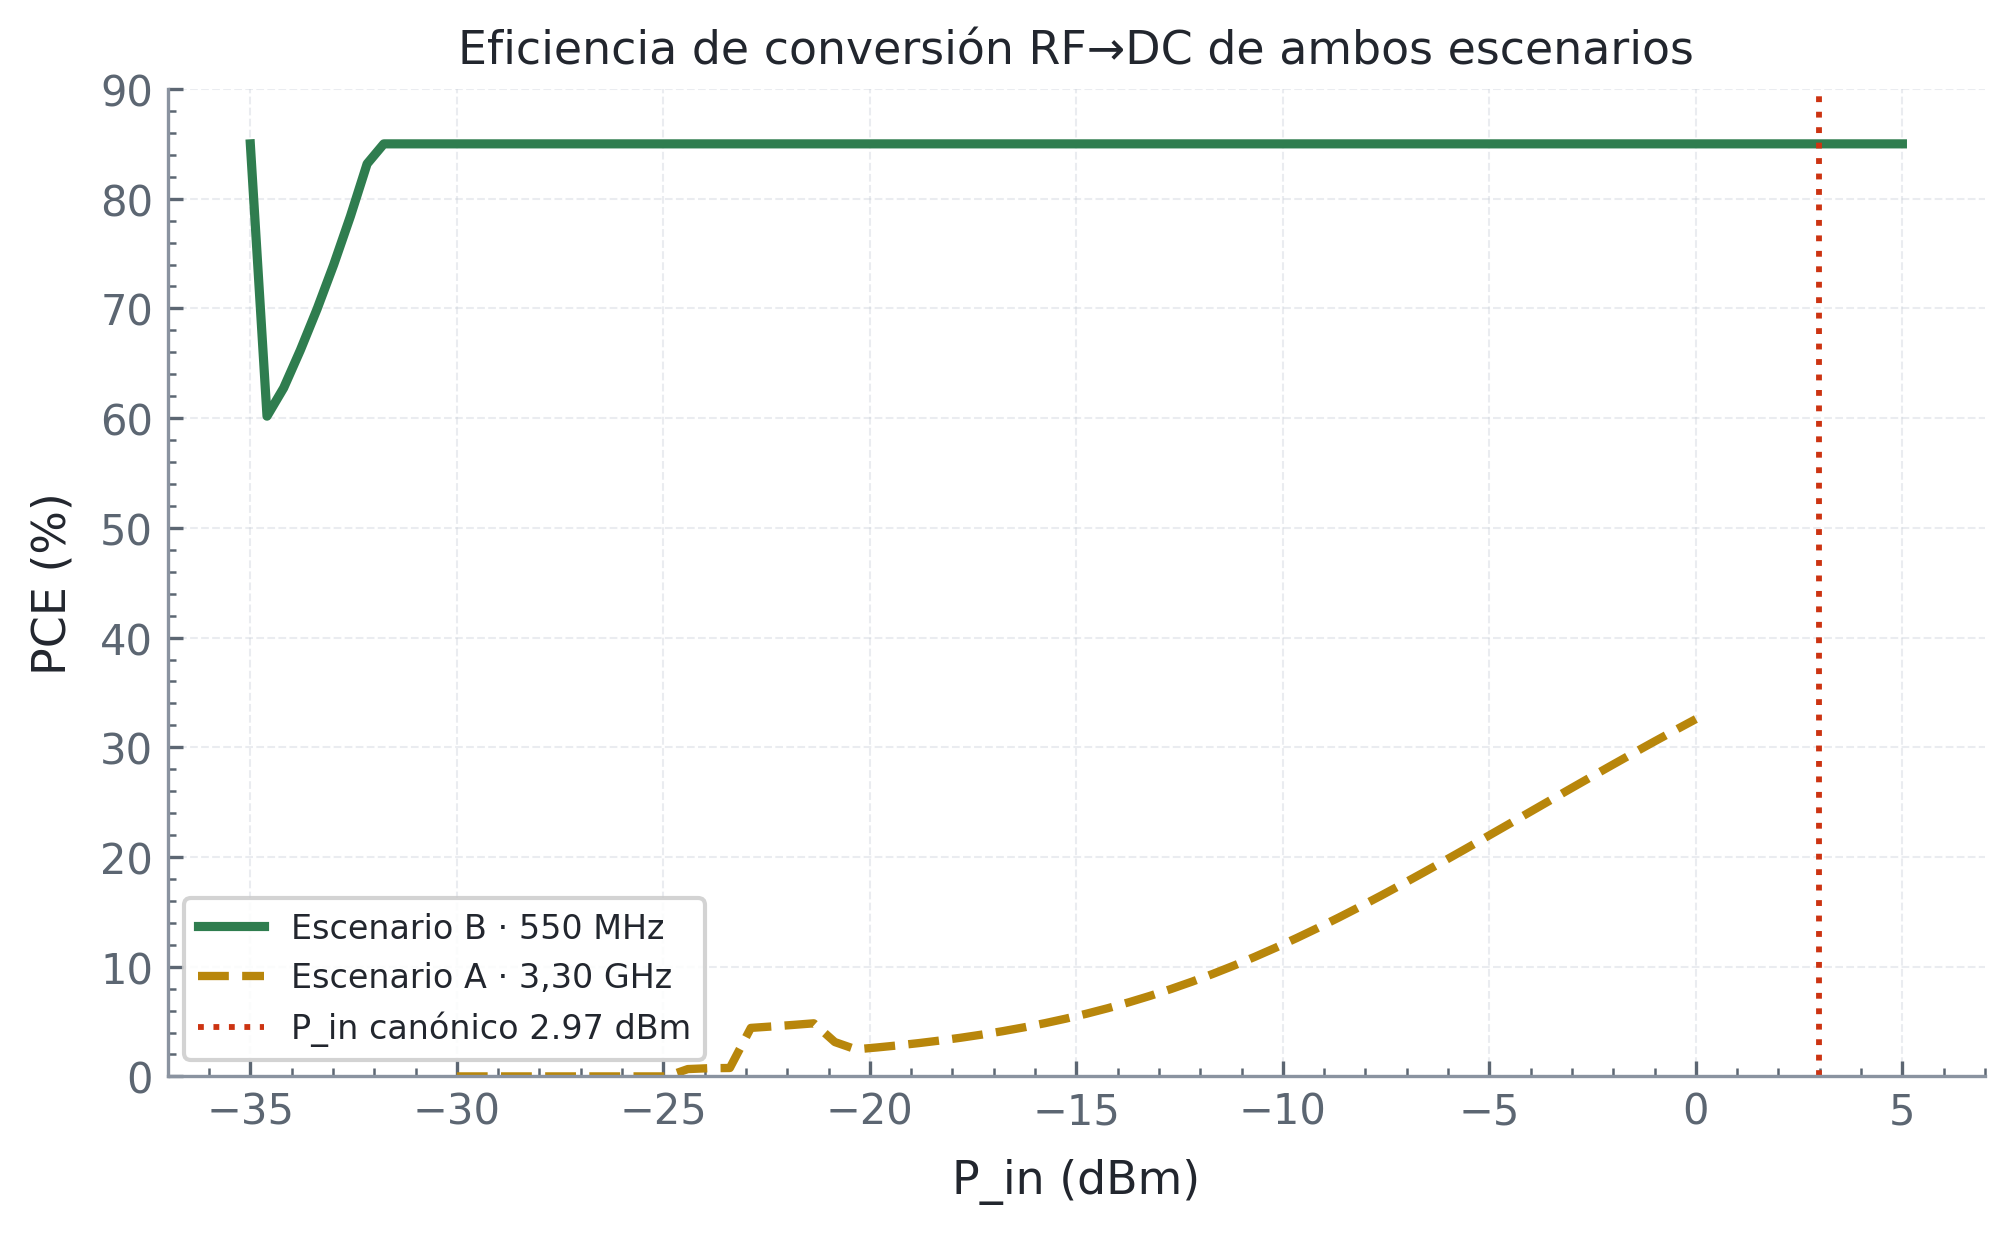
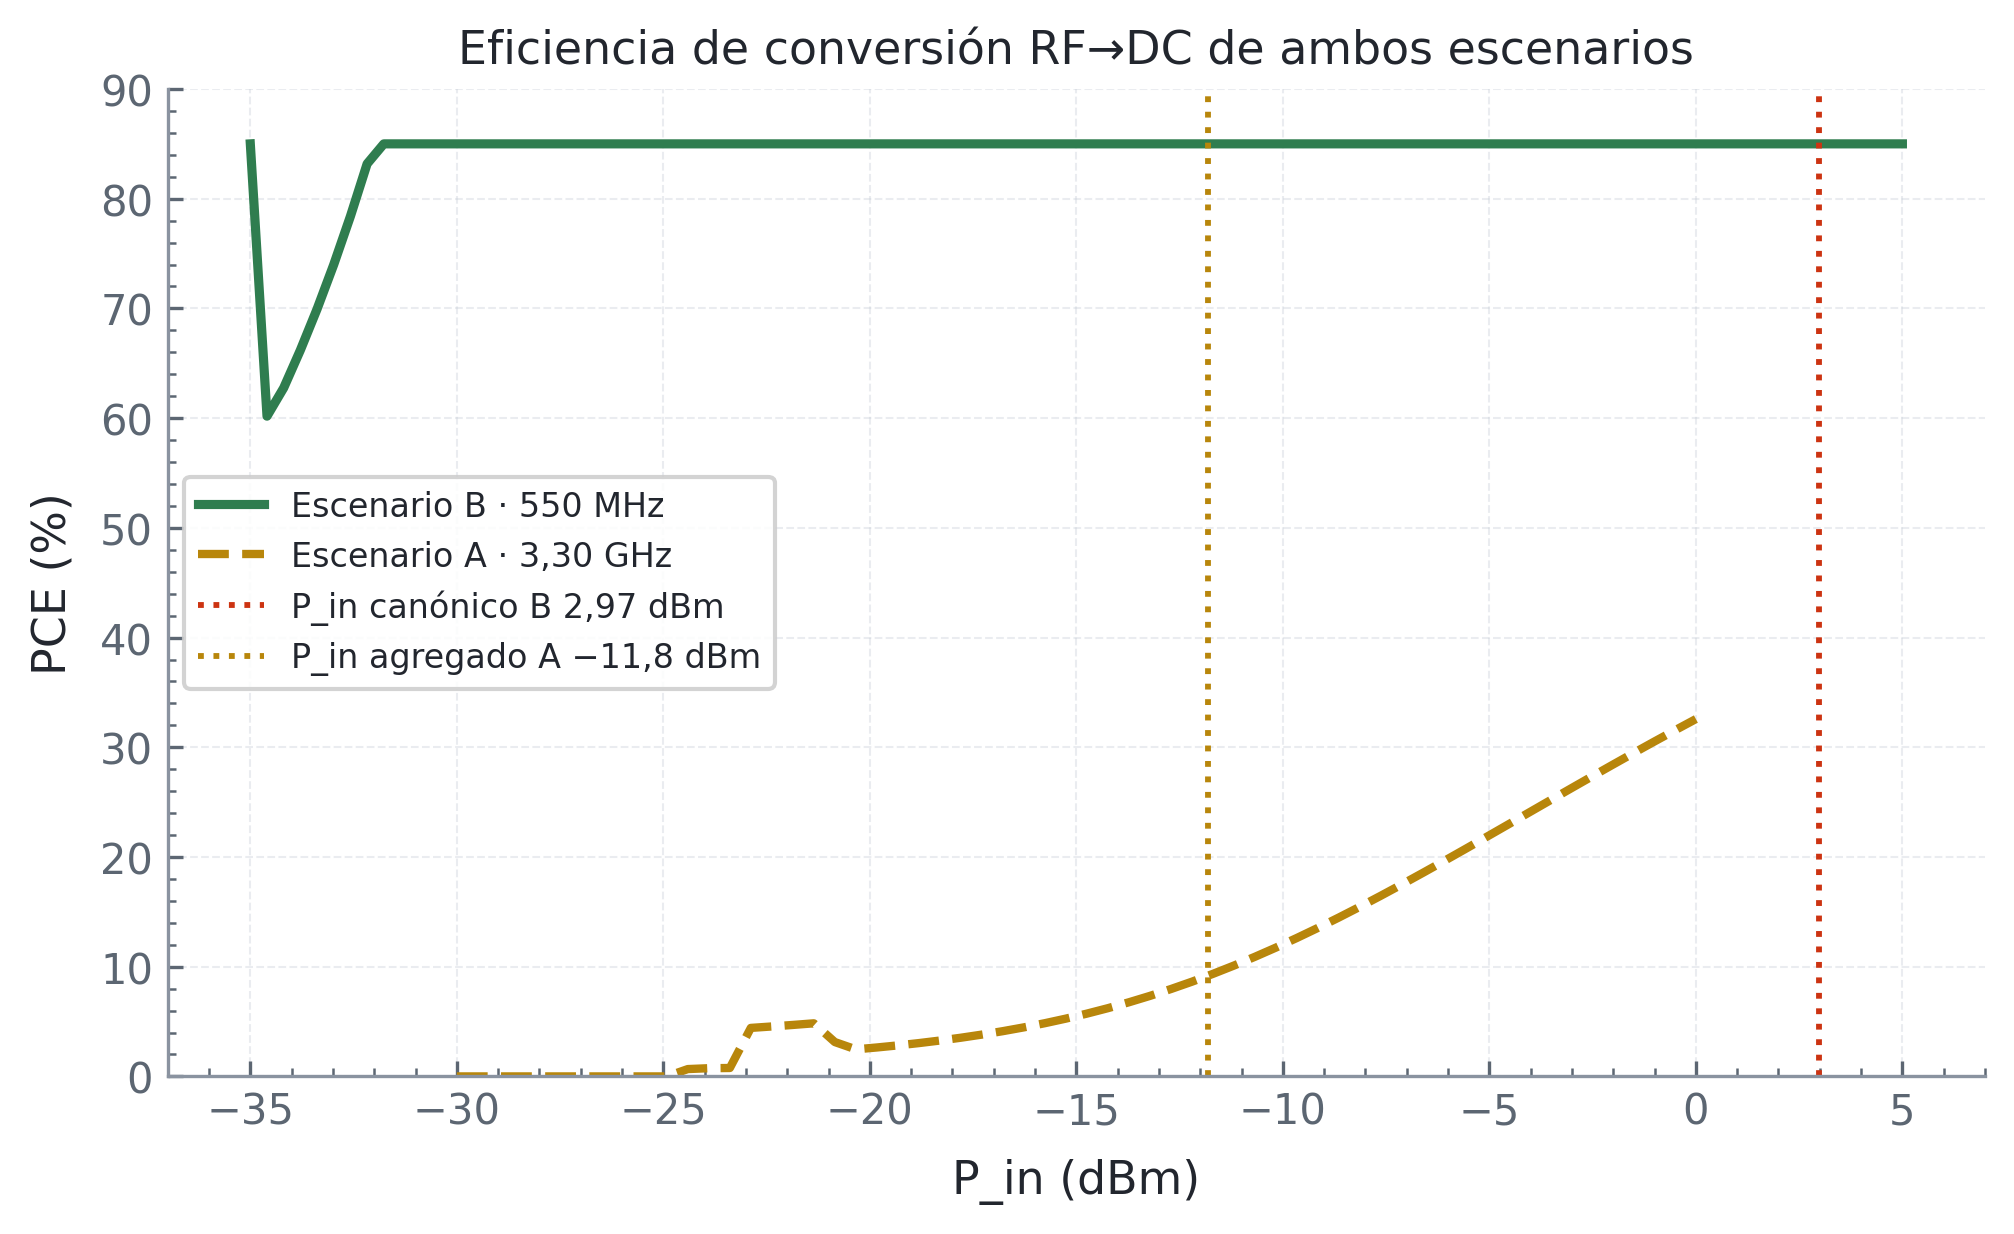
Corrige cascada (identidad 4 factores, eta_cadena) y marca punto de A en PCE
- fig05_cascada: elimina el doble conteo de eta_rad (ya embebido en P_in via
  ganancia realizada); la cascada grafica la identidad 1982x0,983x0,9484x
  0,85x0,85 = 1335 uW y se titula eta_cadena=67,36% para no colisionar con el
  FOM eta_total=0,4023 (5 factores) de la Tabla B.1.
- fig10_pce_ambos: agrega el punto de operacion urbano del Escenario A
  (P_in agregado -11,8 dBm desde 66,0 uW) junto al canonico de B (+2,97 dBm);
  etiquetas con coma decimal y signo menos tipografico.

Changed region(s): [[0.0924, 0.3695, 0.4002, 0.5851], [0.0924, 0.7083, 0.3694, 0.8622]]

diff --git a/_regen/generate_artifacts.py b/_regen/generate_artifacts.py
@@ -313,14 +313,22 @@ def fig15_flpda_completa():
 
 
 def fig05_cascada():
-    etapas = ["η_rad", "η_mm", "η_IMN", "PCE", "η_PMIC"]
-    facs = [CANONICAL["eta_rad"], CANONICAL["eta_mm"], CANONICAL["eta_imn"],
+    # Cascada de la identidad P_DC (Ecuación 2): arranca en la potencia YA
+    # disponible en el puerto de la antena (P_in_mW, que incorpora la ganancia
+    # realizada / η_rad vía el balance de enlace de Friis) y conserva solo los
+    # cuatro eslabones posteriores. NO se repite η_rad aquí: incluirlo de nuevo
+    # duplicaría la pérdida de radiación ya contenida en P_in_mW y rompería la
+    # identidad citada en la Nota de la Figura 19 (1 982×0,983×0,9484×0,85×0,85
+    # = 1 335,0 µW). El FOM de cinco factores (η_rad·η_mm·η_imn·PCE·η_pmic =
+    # eta_total, 0.4023) es una métrica aparte y no se grafica en esta cascada.
+    etapas = ["η_mm", "η_IMN", "PCE", "η_PMIC"]
+    facs = [CANONICAL["eta_mm"], CANONICAL["eta_imn"],
             CANONICAL["PCE"], CANONICAL["eta_pmic"]]
     cum = np.cumprod(facs) * 100.0
     fig, ax = plt.subplots(figsize=(6.6, 4.0))
     xs = np.arange(len(etapas) + 1)
     ys = np.concatenate([[100.0], cum])
-    labels = ["P interceptada"] + etapas
+    labels = ["P disponible\nen antena"] + etapas
     ax.step(xs, ys, where="post", color=C_AZUL, lw=2)
     ax.fill_between(xs, ys, step="post", color=C_AZUL, alpha=0.10)
     for i in range(len(etapas)):
@@ -328,11 +336,14 @@ def fig05_cascada():
                     textcoords="offset points", xytext=(2, 6), fontsize=8, color=C_ROJO)
     ax.set_xticks(xs); ax.set_xticklabels(labels, rotation=20, ha="right", fontsize=9)
     ax.set_ylabel("Energía conservada (%)")
-    ax.set_title(f"Cascada de eficiencia RF→DC — η_total = "
-                 f"{CANONICAL['eta_total']*100:.2f}%", fontsize=11)
+    eta_pdc = facs[0] * facs[1] * facs[2] * facs[3]
+    # "η_cadena" (post-antena, 4 factores) y no "η_total": ese símbolo queda
+    # reservado al FOM de 5 factores con η_rad (0,4023) de la Tabla B.1.
+    ax.set_title("Cascada de eficiencia RF→DC — η_cadena = "
+                 f"{eta_pdc*100:.2f}%".replace(".", ","), fontsize=11)
     ax.set_ylim(0, 105)
     _save(fig, "Fig05_cascada_RFDC.png")
-    return f"η_total={CANONICAL['eta_total']:.4f} (η_total FOM con η_rad realista)"
+    return f"η_total={eta_pdc:.4f} (identidad P_DC de 4 factores, sin η_rad; coincide con 1982×...=1335 µW)"
 
 
 def fig06_pdc_dist():
@@ -427,7 +438,11 @@ def fig10_pce_ambos():
     ax.plot(a["Pin_dBm"], a["PCE_pct"], color=C_A, lw=2.0, ls="--",
             label="Escenario A · 3,30 GHz")
     ax.axvline(CANONICAL["P_in_dBm"], color=C_ROJO, ls=":", lw=1.4,
-               label=f"P_in canónico {CANONICAL['P_in_dBm']:.2f} dBm")
+               label=f"P_in canónico B {CANONICAL['P_in_dBm']:.2f} dBm".replace(".", ","))
+    # punto de operación urbano de A: potencia agregada de las 7 bandas (66,0 µW)
+    pin_a_dbm = 10.0 * np.log10(66.0e-3)          # µW -> mW -> dBm
+    ax.axvline(pin_a_dbm, color=C_A, ls=":", lw=1.4,
+               label=f"P_in agregado A {pin_a_dbm:.1f} dBm".replace(".", ",").replace("-", "−"))
     ax.set_xlabel("P_in (dBm)"); ax.set_ylabel("PCE (%)")
     ax.set_ylim(0, 90); ax.legend(fontsize=8)
     ax.set_title("Eficiencia de conversión RF→DC de ambos escenarios", fontsize=11)